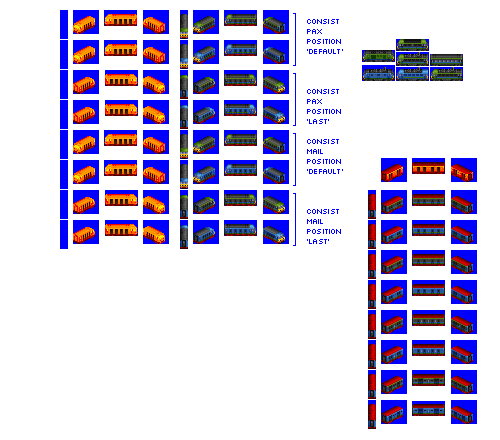
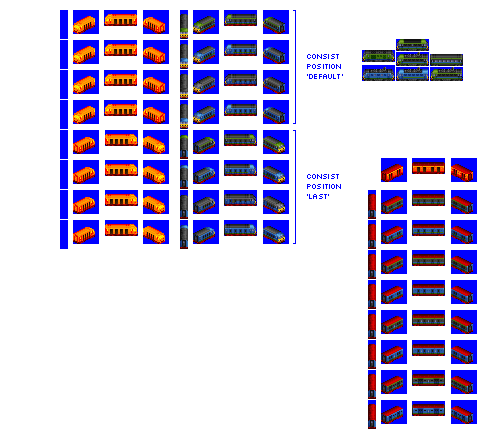
Change: additional liveries for mail DVTs

diff --git a/src/train.py b/src/train.py
@@ -1248,10 +1248,7 @@ class MailEngineCabbageDVTConsist(MailEngineConsist):
         self.gestalt_graphics = GestaltGraphicsConsistPositionDependent(
             spriterow_group_mappings,
             consist_ruleset="driving_cab_cars",
-            # HAX
-            liveries=self.roster.default_pax_liveries,
-            # temp commented out until spritesheets revised
-            # liveries=self.roster.default_mail_liveries,
+            liveries=self.roster.dvt_mail_liveries,
         )
 
 
